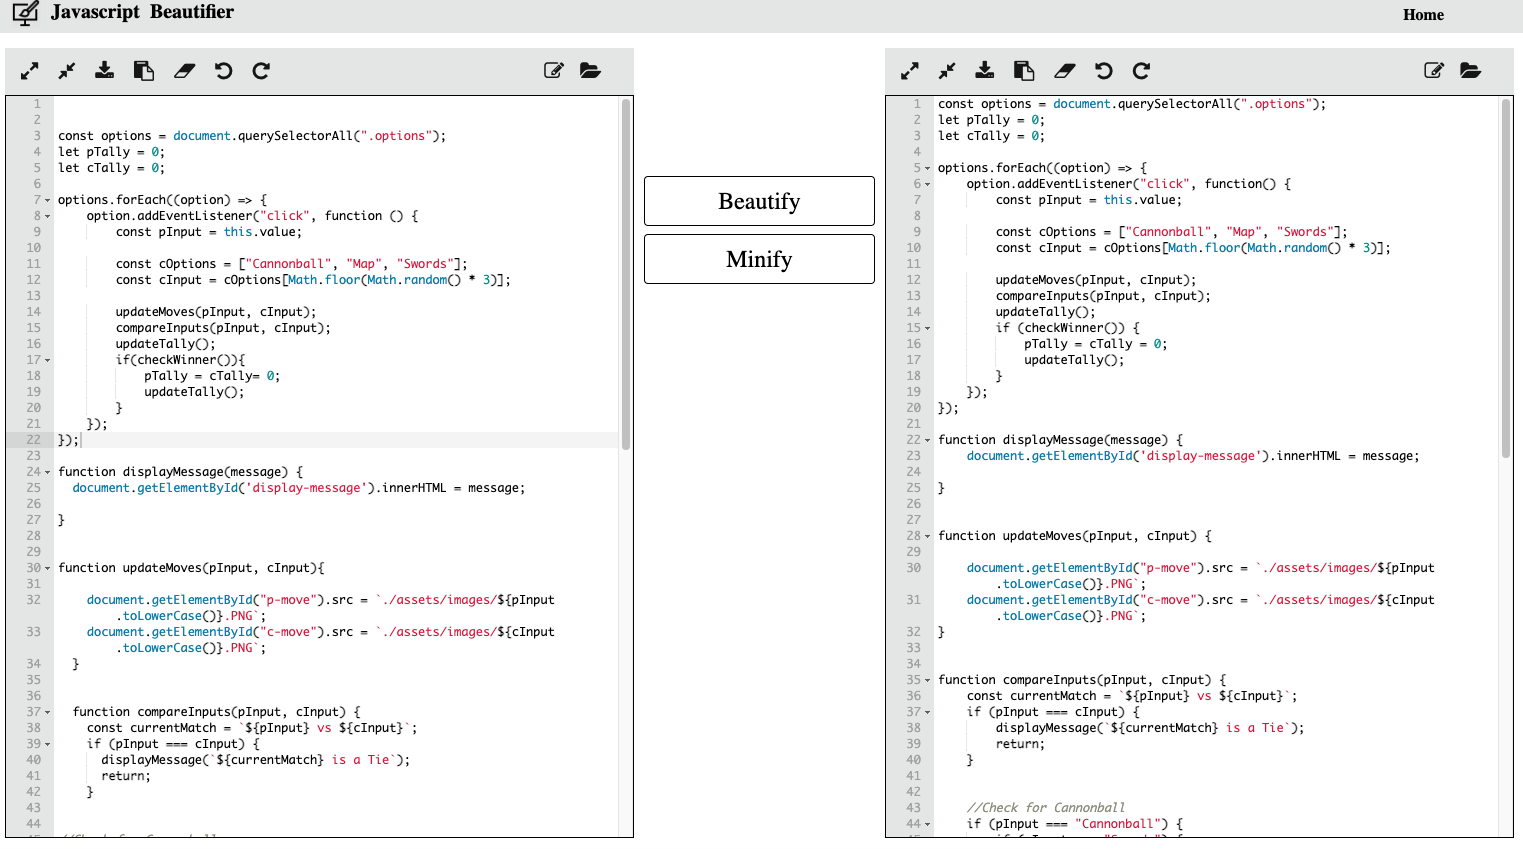
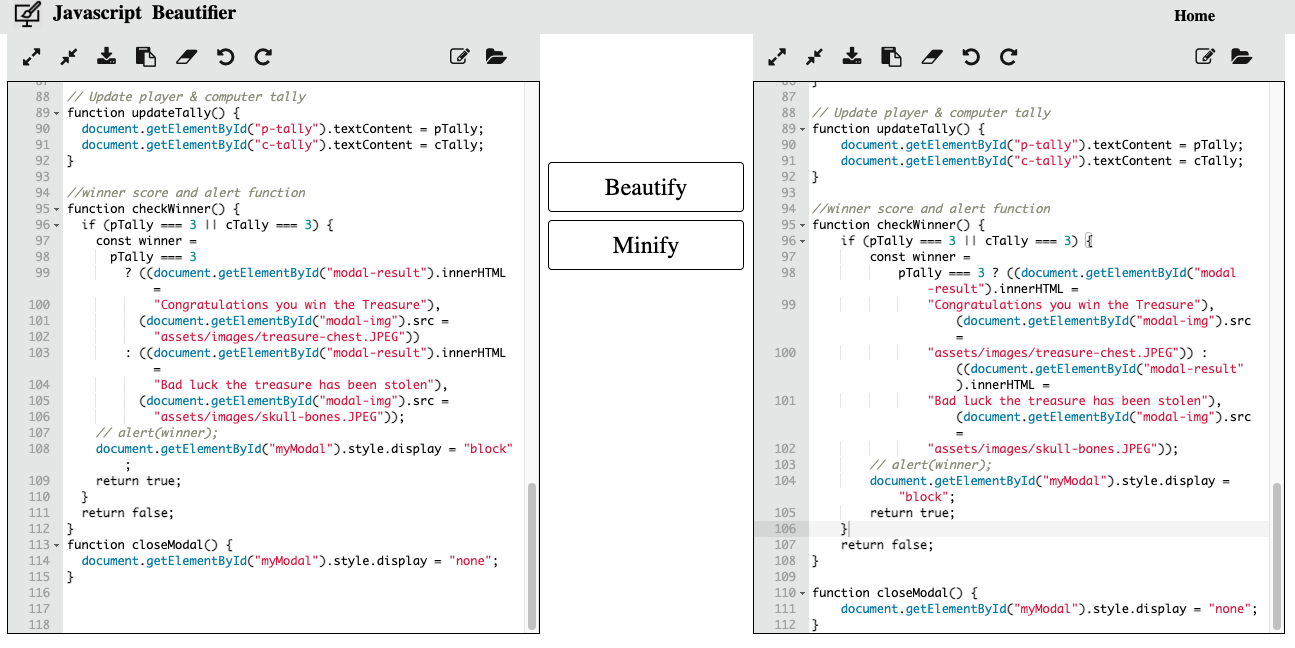
errors in index.html fixed using the w3 validator

Changed region(s): [[0.0, 0.0, 1.0, 0.9877]]

diff --git a/assets/js/script.js b/assets/js/script.js
@@ -3,115 +3,112 @@ let pTally = 0;
 let cTally = 0;
 
 options.forEach((option) => {
-  option.addEventListener("click", function () {
-    const pInput = this.value;
+    option.addEventListener("click", function() {
+        const pInput = this.value;
 
-    const cOptions = ["Cannonball", "Map", "Swords"];
-    const cInput = cOptions[Math.floor(Math.random() * 3)];
+        const cOptions = ["Cannonball", "Map", "Swords"];
+        const cInput = cOptions[Math.floor(Math.random() * 3)];
 
-    updateMoves(pInput, cInput);
-    compareInputs(pInput, cInput);
-    updateTally();
-    if (checkWinner()) {
-      pTally = cTally = 0;
-      updateTally();
-    }
-  });
+        updateMoves(pInput, cInput);
+        compareInputs(pInput, cInput);
+        updateTally();
+        if (checkWinner()) {
+            pTally = cTally = 0;
+            updateTally();
+        }
+    });
 });
 
 function updateMoves(pInput, cInput) {
-  document.getElementById(
-    "p-move"
-  ).src = `./assets/images/${pInput.toLowerCase()}.PNG`;
-  document.getElementById(
-    "c-move"
-  ).src = `./assets/images/${cInput.toLowerCase()}.PNG`;
+    document.getElementById(
+        "p-move"
+    ).src = `./assets/images/${pInput.toLowerCase()}.PNG`;
+    document.getElementById(
+        "c-move"
+    ).src = `./assets/images/${cInput.toLowerCase()}.PNG`;
 }
 
 function compareInputs(pInput, cInput) {
-  const currentMatch = `${pInput} vs ${cInput}`;
-  if (pInput === cInput) {
-    displayMessage(`${currentMatch} is a Tie`);
-    return;
-  }
-
-  //Check for Cannonball
-  if (pInput === "Cannonball") {
-    if (cInput === "Swords") {
-      document.getElementById(
-        "modal-result"
-      ).innerHTML = `${currentMatch} = You Win`;
-      pTally++;
-    } else {
-      document.getElementById(
-        "modal-result"
-      ).innerHTML = `${currentMatch} = Computer Wins`;
-      cTally++;
+    const currentMatch = `${pInput} vs ${cInput}`;
+    if (pInput === cInput) {
+        displayMessage(`${currentMatch} is a Tie`);
+        return;
     }
-    document.getElementById("myModal").style.display = "block";
-  }
 
-  //Check for Map
-  else if (pInput === "Map") {
-    if (cInput === "Cannonball") {
-      document.getElementById(
-        "modal-result"
-      ).innerHTML = `${currentMatch} = You Win`;
-      pTally++;
-    } else {
-      document.getElementById(
-        "modal-result"
-      ).innerHTML = `${currentMatch} = Computer Wins`;
-
-      cTally++;
+    //Check for Cannonball
+    if (pInput === "Cannonball") {
+        if (cInput === "Swords") {
+            document.getElementById(
+                "modal-result"
+            ).innerHTML = `${currentMatch} = You Win`;
+            pTally++;
+        } else {
+            document.getElementById(
+                "modal-result"
+            ).innerHTML = `${currentMatch} = Computer Wins`;
+            cTally++;
+        }
+        document.getElementById("myModal").style.display = "block";
     }
-    document.getElementById("myModal").style.display = "block";
-  }
 
-  //Check for Swords
-  else {
-    if (cInput === "Map") {
-      document.getElementById(
-        "modal-result"
-      ).innerHTML = `${currentMatch} = You Win`;
-      pTally++;
-    } else {
-      document.getElementById(
-        "modal-result"
-      ).innerHTML = `${currentMatch} = Computer Wins`;
-      cTally++;
+    //Check for Map
+    else if (pInput === "Map") {
+        if (cInput === "Cannonball") {
+            document.getElementById(
+                "modal-result"
+            ).innerHTML = `${currentMatch} = You Win`;
+            pTally++;
+        } else {
+            document.getElementById(
+                "modal-result"
+            ).innerHTML = `${currentMatch} = Computer Wins`;
+
+            cTally++;
+        }
+        document.getElementById("myModal").style.display = "block";
     }
-    document.getElementById("myModal").style.display = "block";
-  }
+
+    //Check for Swords
+    else {
+        if (cInput === "Map") {
+            document.getElementById(
+                "modal-result"
+            ).innerHTML = `${currentMatch} = You Win`;
+            pTally++;
+        } else {
+            document.getElementById(
+                "modal-result"
+            ).innerHTML = `${currentMatch} = Computer Wins`;
+            cTally++;
+        }
+        document.getElementById("myModal").style.display = "block";
+    }
 }
 
 // Update player & computer tally
 function updateTally() {
-  document.getElementById("p-tally").textContent = pTally;
-  document.getElementById("c-tally").textContent = cTally;
+    document.getElementById("p-tally").textContent = pTally;
+    document.getElementById("c-tally").textContent = cTally;
 }
 
 //winner score and alert function
 function checkWinner() {
-  if (pTally === 3 || cTally === 3) {
-    const winner =
-      pTally === 3
-        ? ((document.getElementById("modal-result").innerHTML =
-            "Congratulations you win the Treasure"),
-          (document.getElementById("modal-img").src =
-            "assets/images/treasure-chest.JPEG"))
-        : ((document.getElementById("modal-result").innerHTML =
-            "Bad luck the treasure has been stolen"),
-          (document.getElementById("modal-img").src =
-            "assets/images/skull-bones.JPEG"));
-    // alert(winner);
-    document.getElementById("myModal").style.display = "block";
-    return true;
-  }
-  return false;
+    if (pTally === 3 || cTally === 3) {
+        const winner =
+            pTally === 3 ? ((document.getElementById("modal-result").innerHTML =
+                "Congratulations you win the Treasure"), (document.getElementById("modal-img").src =
+                "assets/images/treasure-chest.JPEG")) : ((document.getElementById("modal-result").innerHTML =
+                "Bad luck the treasure has been stolen"), (document.getElementById("modal-img").src =
+                "assets/images/skull-bones.JPEG"));
+        // alert(winner);
+        document.getElementById("myModal").style.display = "block";
+        return true;
+    }
+    return false;
 }
+
 function closeModal() {
-  document.getElementById("myModal").style.display = "none";
+    document.getElementById("myModal").style.display = "none";
 }
 
   

diff --git a/index.html b/index.html
@@ -30,21 +30,21 @@
             class="options"
             type="image"
             src="./assets/images/cannonball.PNG"
-            value="Cannonball"
+            
             alt="cannonball"
           />
           <input
             class="options"
             type="image"
             src="./assets/images/map.PNG"
-            value="Map"
+            
             alt="map"
           />
           <input
             class="options"
             type="image"
             src="./assets/images/swords.PNG"
-            value="Swords"
+            
             alt="swords"
           />
         </div>
@@ -97,7 +97,7 @@
     <div id="myModal" class="modal">
       <!-- Modal content -->
       <div class="modal-content">
-        <img class="modal-img" id="modal-img" src="" />
+        <img class="modal-img" id="modal-img" src="./assets/images/treasure-chest.JPEG" alt="modal" />
         <h3 id="modal-result">Congratulations you win the Treasure</h3>
         <button class="play-again-btn" onclick="closeModal()">
           Play Again

diff --git a/README.md b/README.md
@@ -72,7 +72,7 @@ the aim is to allow the website to resize itself and fit to any device as small 
 
 
 
-Validator Testing:
+#### Validator Testing:
 
 1. HTML
 - No errors were returned when passing through the official W3C validator
@@ -84,7 +84,9 @@ Validator Testing:
 - No warnings from wwww.jshint.com
 ![jshint](assets/images/jshint.png)
 
-4. Javascript Beautifier used here
+#### Code Formatting
+
+4. Javascript Beautifier used here, you can see the amount of lines being used have been reduced.
 ![jshint](assets/images/beautifier-js.png)
 
 
